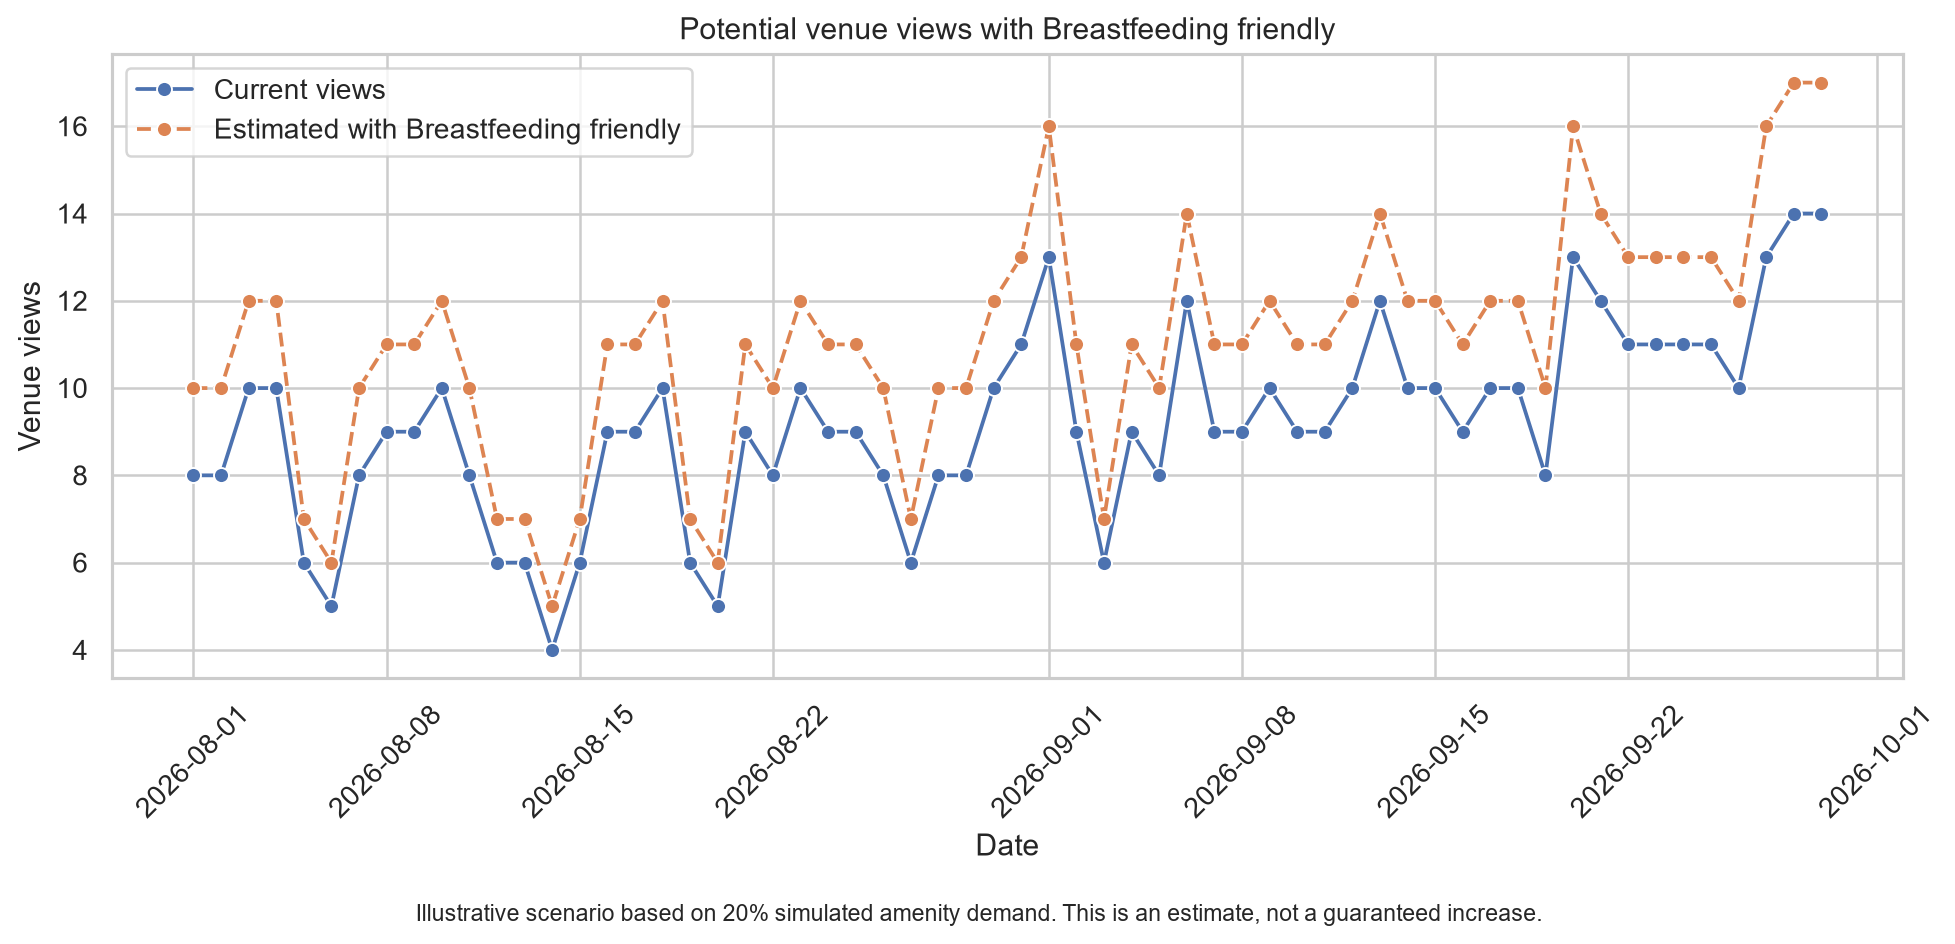
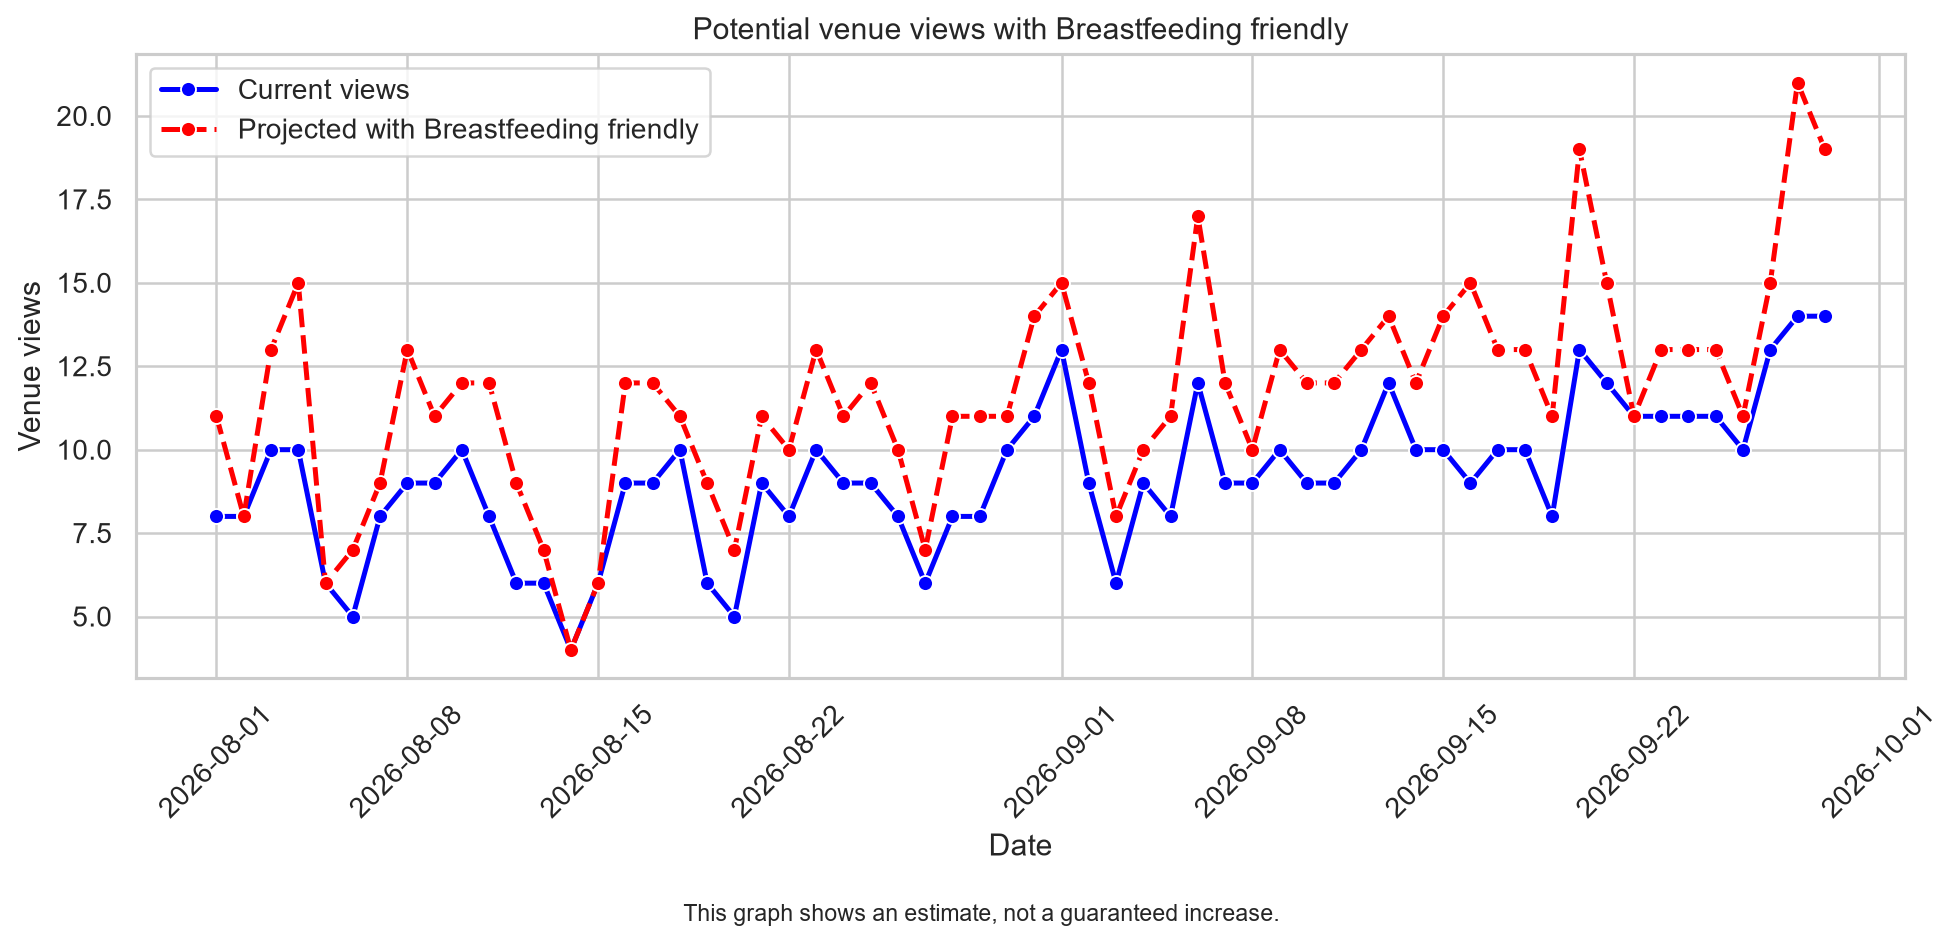
Charts changed

diff --git a/data/scripts/generate_business_charts.py b/data/scripts/generate_business_charts.py
@@ -1,7 +1,7 @@
 import json
 import random
 import re
-from datetime import datetime, timedelta
+from datetime import datetime
 from pathlib import Path
 
 import matplotlib.pyplot as plt
@@ -27,24 +27,14 @@ CHARTS_DIR.mkdir(parents=True, exist_ok=True)
 sns.set_theme(style="whitegrid")
 
 
-# ============================================================
-# AMENITIES
-# ============================================================
-# These match the amenities in our database.
-#
-# demand_rate is SIMULATED.
-# It represents the proportion of relevant searches that
-# requested that amenity.
-#
-# We use it to create an illustrative "what if" projection.
-# ============================================================
+
 
 AMENITIES = [
     {
         "amenity_id": 1,
         "name": "Accessible entrance",
         "searches": 34,
-        "demand_rate": 0.12,
+        "demand_rate": 0.10,
     },
     {
         "amenity_id": 2,
@@ -56,49 +46,49 @@ AMENITIES = [
         "amenity_id": 3,
         "name": "Prams allowed",
         "searches": 72,
-        "demand_rate": 0.25,
+        "demand_rate": 0.38,
     },
     {
         "amenity_id": 4,
         "name": "Pram storage",
         "searches": 43,
-        "demand_rate": 0.15,
+        "demand_rate": 0.14,
     },
     {
         "amenity_id": 5,
         "name": "Changing facilities",
         "searches": 78,
-        "demand_rate": 0.27,
+        "demand_rate": 0.48,
     },
     {
         "amenity_id": 6,
         "name": "Table reservation",
         "searches": 29,
-        "demand_rate": 0.10,
+        "demand_rate": 0.07,
     },
     {
         "amenity_id": 7,
         "name": "Breastfeeding friendly",
         "searches": 58,
-        "demand_rate": 0.20,
+        "demand_rate": 0.27,
     },
     {
         "amenity_id": 8,
         "name": "Children's activities",
         "searches": 63,
-        "demand_rate": 0.22,
+        "demand_rate": 0.33,
     },
     {
         "amenity_id": 9,
         "name": "Parking",
         "searches": 46,
-        "demand_rate": 0.16,
+        "demand_rate": 0.21,
     },
     {
         "amenity_id": 10,
         "name": "High chairs",
         "searches": 66,
-        "demand_rate": 0.23,
+        "demand_rate": 0.42,
     },
 ]
 
@@ -202,6 +192,8 @@ sns.lineplot(
     x="date",
     y="views",
     marker="o",
+    color="blue",
+    linewidth=2,
 )
 
 plt.title("Venue views over time")
@@ -219,22 +211,7 @@ save_chart(
 # ============================================================
 # CREATE PROJECTION GRAPH FOR EACH AMENITY
 # ============================================================
-#
-# Projection:
-#
-# estimated views =
-# current views * (1 + demand rate)
-#
-# Example:
-#
-# current views = 10
-# demand rate = 0.20
-#
-# estimated views = 12
-#
-# IMPORTANT:
-# This is an illustrative scenario, not a causal forecast.
-# ============================================================
+
 
 opportunities = []
 
@@ -247,14 +224,38 @@ for amenity in AMENITIES:
 
     projection_df = views_df.copy()
 
-    projection_df["estimated_views"] = (
-        projection_df["views"]
-        * (1 + demand_rate)
-    ).round().astype(int)
+    # --------------------------------------------------------
+    # Amenity-specific simulated variation
+    # --------------------------------------------------------
 
-    # ----------------------------------------
+    projection_noise = np.random.default_rng(
+        100 + amenity_id
+    ).normal(
+        loc=0,
+        scale=0.6 + (demand_rate * 2),
+        size=NUMBER_OF_DAYS,
+    )
+
+    # --------------------------------------------------------
+    # Simulated projected views
+    # --------------------------------------------------------
+
+    projection_df["estimated_views"] = (
+        projection_df["views"] * (1 + demand_rate)
+        + projection_noise
+    )
+
+
+    projection_df["estimated_views"] = np.maximum(
+        np.round(
+            projection_df["estimated_views"]
+        ),
+        projection_df["views"],
+    ).astype(int)
+
+    # --------------------------------------------------------
     # Make graph
-    # ----------------------------------------
+    # --------------------------------------------------------
 
     plt.figure(figsize=(11, 5))
 
@@ -264,6 +265,8 @@ for amenity in AMENITIES:
         y="views",
         marker="o",
         label="Current views",
+        color="blue",
+        linewidth=2,
     )
 
     sns.lineplot(
@@ -272,7 +275,9 @@ for amenity in AMENITIES:
         y="estimated_views",
         marker="o",
         linestyle="--",
-        label=f"Estimated with {amenity_name}",
+        label=f"Projected with {amenity_name}",
+        color="red",
+        linewidth=2,
     )
 
     plt.title(
@@ -289,9 +294,7 @@ for amenity in AMENITIES:
         0.5,
         -0.04,
         (
-            f"Illustrative scenario based on "
-            f"{demand_rate:.0%} simulated amenity demand. "
-            f"This is an estimate, not a guaranteed increase."
+            f"This graph shows an estimate, not a guaranteed increase."
         ),
         ha="center",
         fontsize=9,
@@ -304,9 +307,9 @@ for amenity in AMENITIES:
 
     save_chart(filename)
 
-    # ----------------------------------------
+    # --------------------------------------------------------
     # Save info for frontend JSON
-    # ----------------------------------------
+    # --------------------------------------------------------
 
     opportunities.append(
         {
@@ -543,22 +546,19 @@ save_chart(
 # ============================================================
 # BUSINESS ANALYTICS JSON
 # ============================================================
-#
-# Notice:
-#
+
 # There is NO venue ID or venue name here.
-#
+
 # That's deliberate.
-#
-# The real venue will eventually come from:
-#
+
+# The real venue comes from:
+
 # GET /venues/mine
-#
-# This JSON contains only our simulated analytics.
-# ============================================================
+
 
 analytics_data = {
     "generated_at": datetime.now().isoformat(),
+
     "is_demo_data": True,
 
     "views": int(
@@ -588,11 +588,9 @@ analytics_data = {
     ),
 
     "projection_method": (
-        "Estimated views are calculated by "
-        "multiplying simulated current views by "
-        "1 + the simulated amenity demand rate. "
-        "These are illustrative scenarios and "
-        "not guaranteed increases."
+        "Projected views use amenity demand rates "
+        "plus small amenity specific variation. "
+    
     ),
 
     "opportunities": opportunities,
